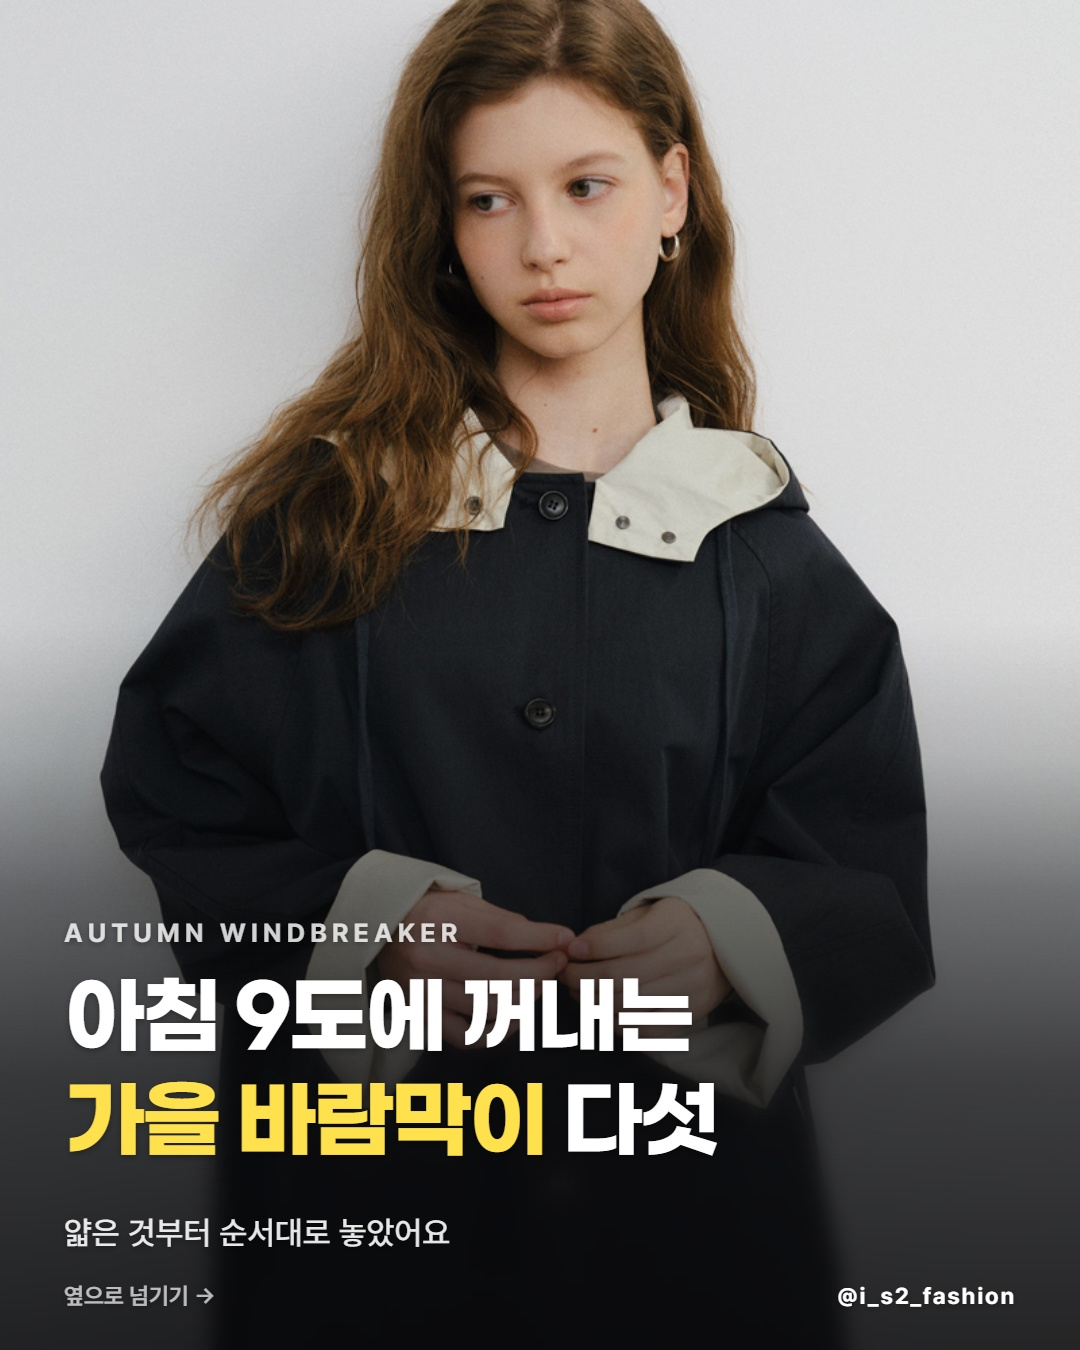
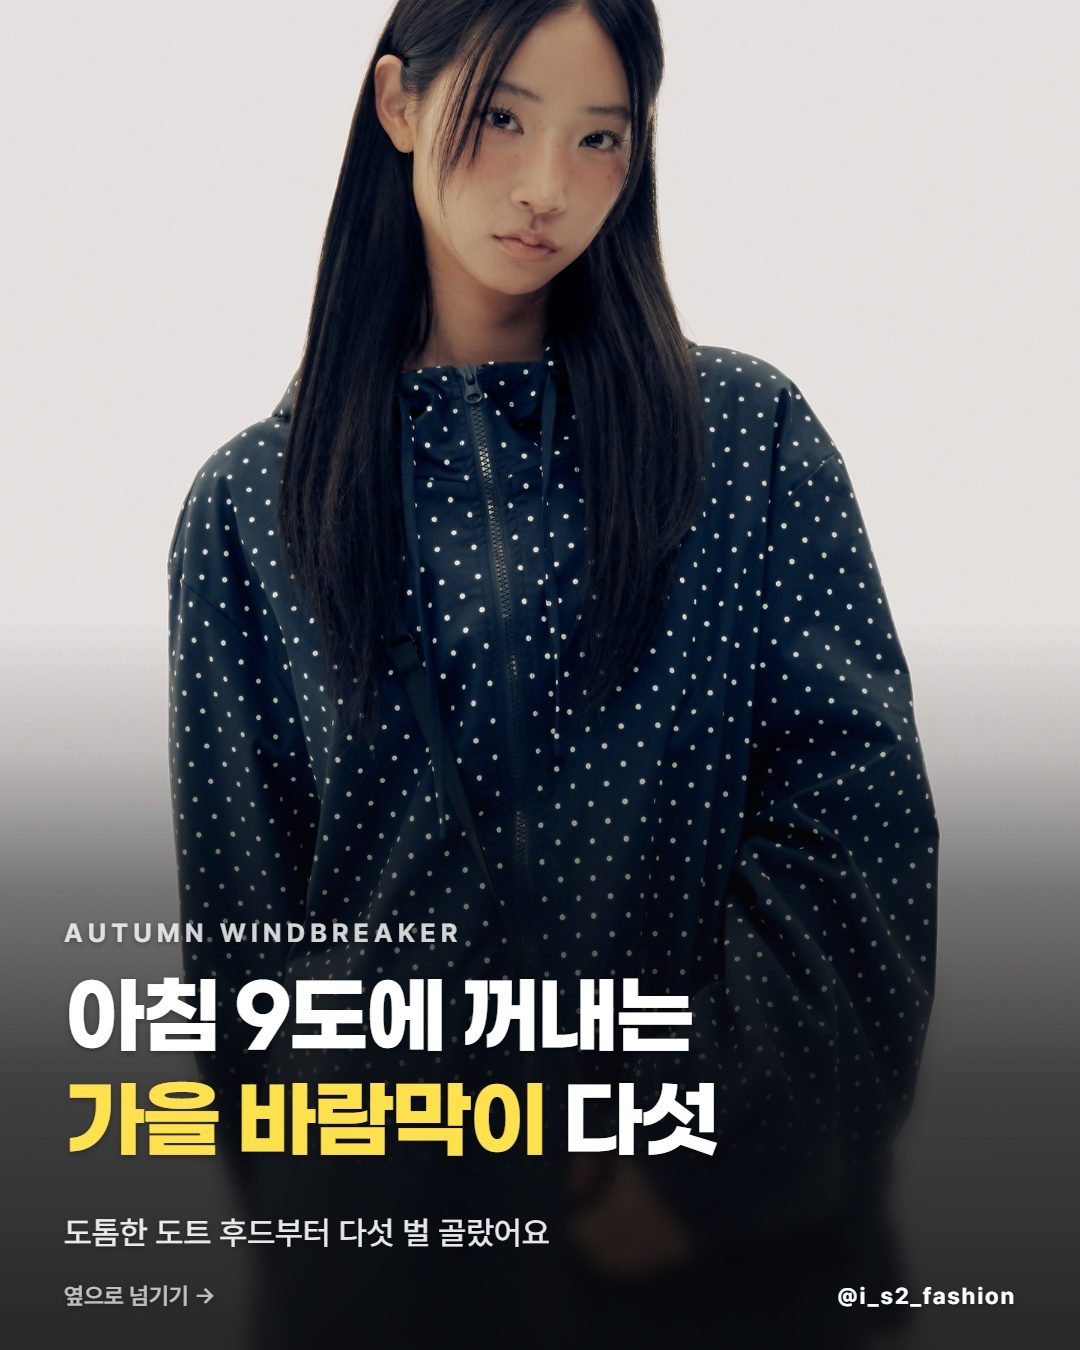
autopost: 20261014 가을 바람막이 — 썸플레이스를 첫 상품·표지로(사용자 지시)

diff --git a/episodes/20261014 가을 바람막이/_preview.html b/episodes/20261014 가을 바람막이/_preview.html
@@ -5,7 +5,7 @@ h1{font-size:18px}.g{display:grid;grid-template-columns:repeat(auto-fit,minmax(2
 img{width:100%;display:block}pre{white-space:pre-wrap;background:#1e1e21;padding:16px;line-height:1.7}
 li.error{color:#ff6b81}li.warn{color:#ffd166}</style></head><body>
 <h1>20261014 가을 바람막이 — 미리보기</h1><ul><li class=warn>로스터 브랜드가 0곳 — 기준은 로스터 1 + 신규 4 (§2)</li><li class=warn>핸들 미검증으로 태그에서 뺀 브랜드: 썸플레이스</li></ul><div class="g"><img src="1.jpg?t=0" alt="1"><img src="2.jpg?t=0" alt="2"><img src="3.jpg?t=0" alt="3"><img src="4.jpg?t=0" alt="4"><img src="5.jpg?t=0" alt="5"><img src="6.jpg?t=0" alt="6"><img src="7.jpg?t=0" alt="7"></div>
-<h2>캡션</h2><pre>가을 바람막이 다섯, 얇은 순서로 놓았습니다 🍂
+<h2>캡션</h2><pre>가을 바람막이 다섯 벌 골랐습니다 🍂
 아침 9도, 낮 17도. 한 겹이면 되는 날입니다.
 
 작년 이후 나온 것 중 후기 쌓인 것만 골랐습니다.

diff --git a/episodes/20261014 가을 바람막이/result.md b/episodes/20261014 가을 바람막이/result.md
@@ -6,13 +6,13 @@
 - **실험 번호**: #5 (브랜드 반응·공유)
 - **키워드**: 가을 바람막이 — 시즌어 '가을' · 품목어 '바람막이'
 - **수요 근거**: 10-14 서울 최저 9° 최고 17° 강수 0%, 15~16일 비 예보(88%·86%) — 사용자 직접 지정. 무신사 여성 아우터 실시간 랭킹 30 중 후드 집업·윈드 계열 4개(스파오 씬라이트 후드 재킷 6·14위, 무신사 스탠다드 후디드 집업 16·23위)
-- **축**: 두께 순서(얇은 → 두꺼운) — 비치는 크롭 → 얇은 시어 → 적당한 두께 후드 → 도톰한 안감 후드 → 코튼 혼방 하프
+- **축**: 첫 장 썸플레이스 도트 후드(10-14 사용자 지정), 이후 두께 순서(얇은 크롭 → 시어 → 적당한 두께 후드 → 코튼 혼방 하프)
 - **가설**: 아침 9도·낮 17도로 한 겹이 필요한 날 당일 제작·게시한 바람막이 회차가 짧은 캡션(6줄)으로도 도달 200+·공유 1+를 낸다.
 - **바꾼 변수 (1개만)**: 캡션을 본문 6줄로 압축(10-13 사용자 피드백 '길어길어') — 정보 블록·질문 없음
 - **대조군**: 20261013 가을비 레인부츠(긴 캡션, 측정 전) / 20260917 가을 부츠(1,718·공유 1)
 - **판정 기준**: +72h 도달 200 이상 + 공유 1건 이상 · 유입 '기타' 비중 참고
 - **캡션 무드**: 상황 스케치형
-- **표지 유형**: 무드형(얼굴 착용컷 — 유라고 블랙 에디토리얼)
+- **표지 유형**: 무드형(얼굴 착용컷 — 썸플레이스 도트 후드, 10-14 사용자 지정)
 - **변수 오염·주의**: 로스터 브랜드 0곳 · 직전 회차(레인부츠)와 하루 간격 · 2번 카드 가격 139,000원으로 다른 카드보다 높음
 
 ## 2. 게시 전 검증
@@ -23,10 +23,10 @@
 
 | # | 브랜드 | 상품 | 판매가 | 정가 | 할인 | 후기 | 평점 | 판매 개시 | 근거 | 핸들 |
 |---|---|---|---:|---:|---:|---:|---:|---|---|---|
-| 1 | 데비웨어 | [29CM] 파인 스트링 윈드자켓 (3063206) | 38,000 | 38,000 | 0% | 176 | 4.5 | 2025-02-10  | 인용 | @deviwear |
-| 2 | 댄프 | [29CM] 브리즈 에어 윈드 자켓 (3405847) | 139,000 | 159,000 | 13% | 78 | 5.0 | 2025-08-08  | 인용 | @danp_kr |
-| 3 | 노티카 | [무신사] 덱 트랜싯 자켓 (4763740) | 89,100 | 99,000 | 10% | 326 | 4.8 | 2025-02-06 2026 S/S | 인용 | @nautica.kr |
-| 4 | 썸플레이스 | [무신사] 도트 후드 스트링 바람막이 세트 (5361270) | 55,300 | 71,000 | 22% | 78 | 4.7 | 2025-08-25 2025 F/W | 인용 | (태그 안 함) |
+| 1 | 썸플레이스 | [무신사] 도트 후드 스트링 바람막이 세트 (5361270) | 55,300 | 71,000 | 22% | 78 | 4.7 | 2025-08-25 2025 F/W | 인용 | (태그 안 함) |
+| 2 | 데비웨어 | [29CM] 파인 스트링 윈드자켓 (3063206) | 38,000 | 38,000 | 0% | 176 | 4.5 | 2025-02-10  | 인용 | @deviwear |
+| 3 | 댄프 | [29CM] 브리즈 에어 윈드 자켓 (3405847) | 139,000 | 159,000 | 13% | 78 | 5.0 | 2025-08-08  | 인용 | @danp_kr |
+| 4 | 노티카 | [무신사] 덱 트랜싯 자켓 (4763740) | 89,100 | 99,000 | 10% | 326 | 4.8 | 2025-02-06 2026 S/S | 인용 | @nautica.kr |
 | 5 | 유라고 | [29CM] 리버 후디드 하프 점퍼 (3037432) | 204,250 | 215,000 | 5% | 254 | 5.0 | 2025-02-10  | 인용 | @we_are_urago |
 
 ## 3. 게시 정보
